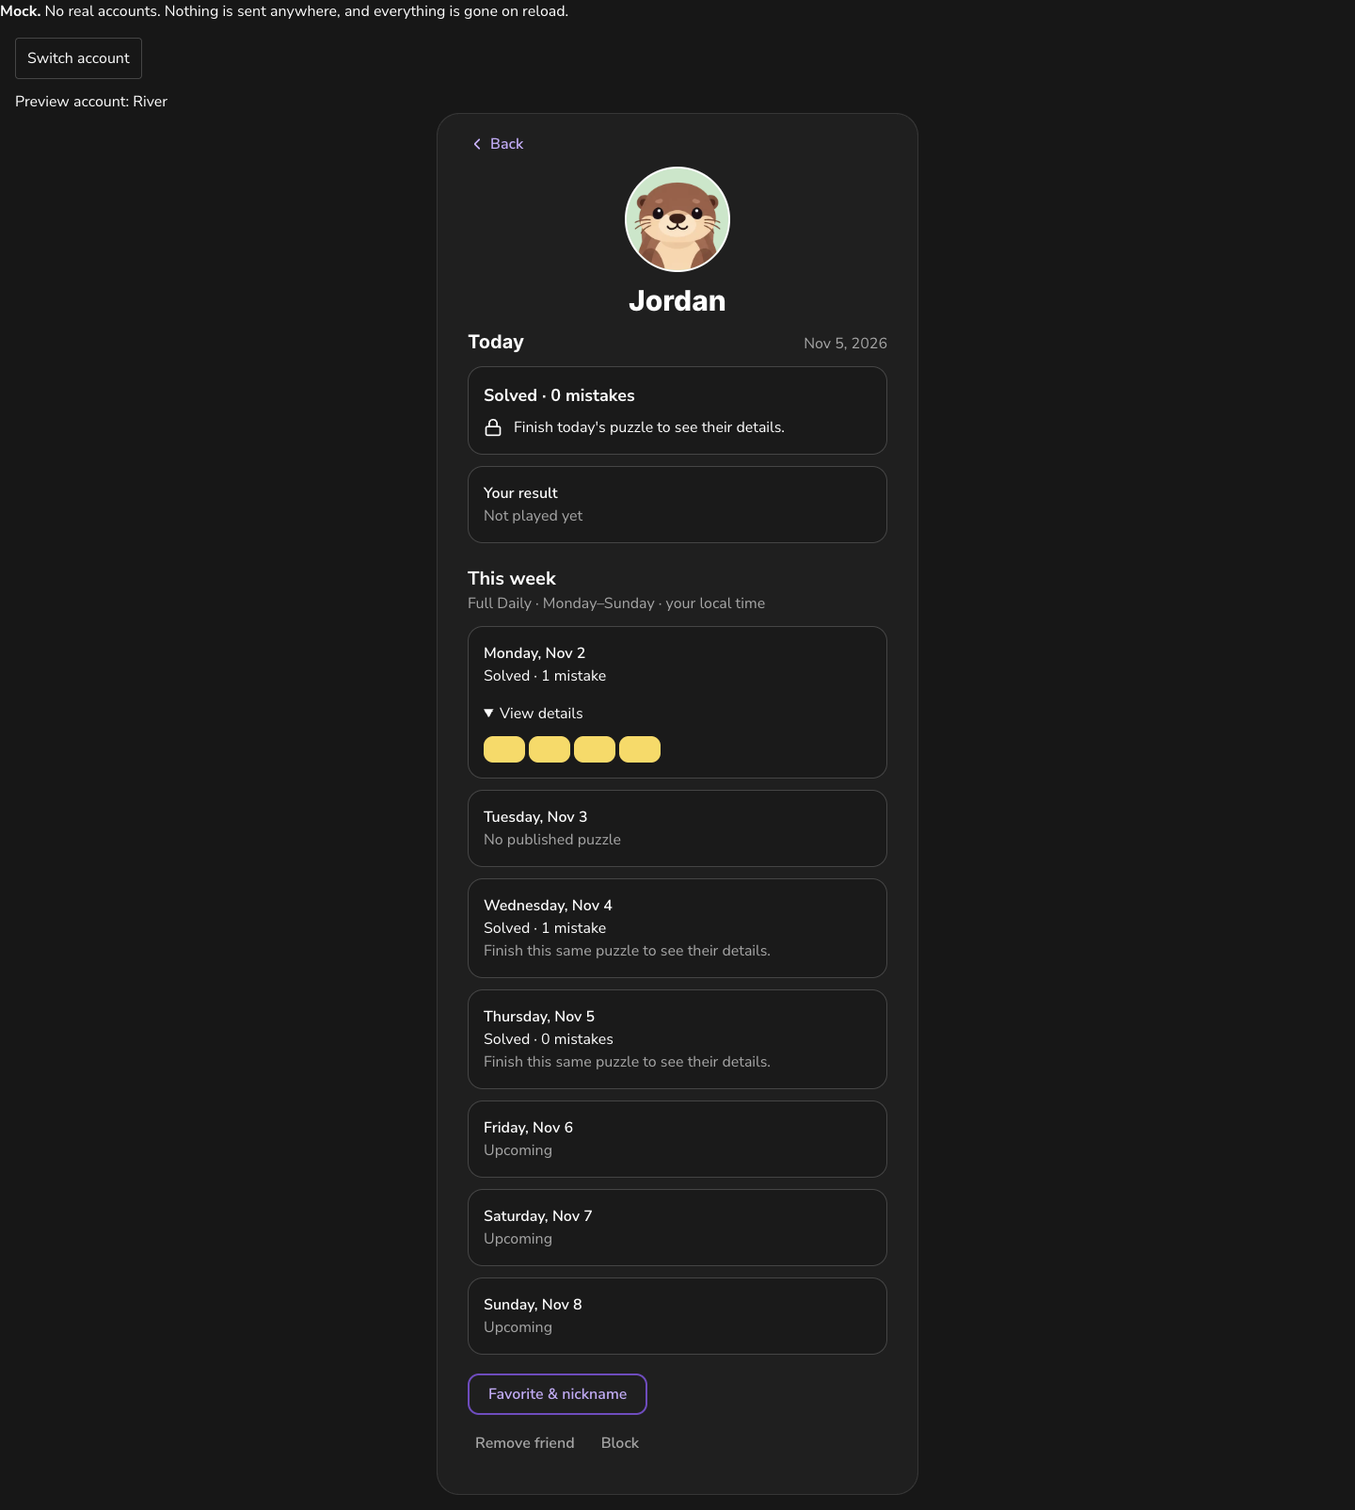
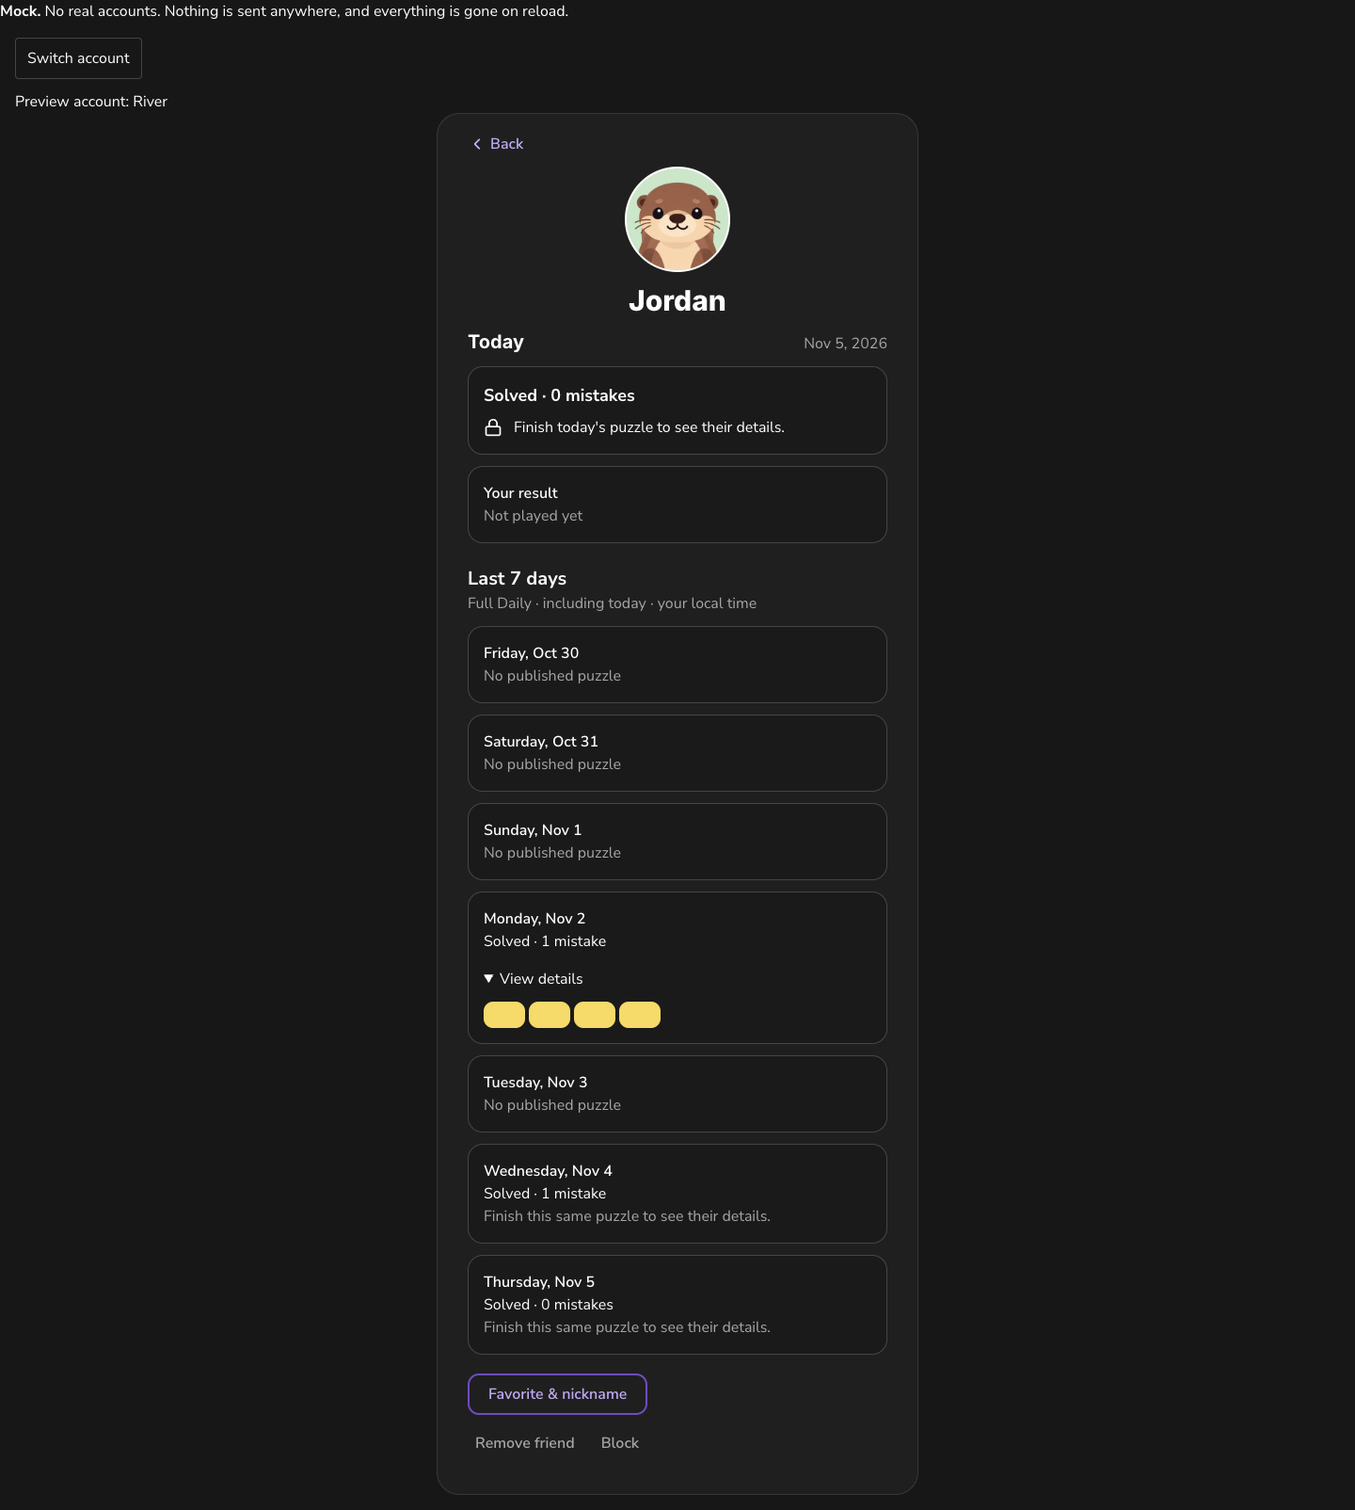
Use rolling activity periods and define anonymous standings rows

Changed region(s): [[0.3438, 0.3741, 0.5625, 0.904], [0.5, 0.6234, 0.5625, 0.6546]]

diff --git a/src/test/socialWeek.test.tsx b/src/test/socialWeek.test.tsx
@@ -1,6 +1,6 @@
 import {act,fireEvent,render,screen,waitFor} from '@testing-library/react';
 import {describe,expect,it,vi} from 'vitest';
-import {socialWeek,localPuzzleDate} from '@/lib/socialWeek';
+import {socialWeek,localPuzzleDate,rollingSocialDays} from '@/lib/socialWeek';
 import {FriendWeek} from '@/components/social/FriendWeek';
 import {readFriendWeek} from '@/components/social/friendWeekData';
 import type {SocialApi} from '@/components/social/socialApi';
@@ -12,32 +12,32 @@ function fixture(){
  const api={client:{call},today:()=>new Date(2026,10,5,23,59),weekPuzzles} as unknown as SocialApi;
  return {api,call,weekPuzzles};
 }
-describe('local Monday–Sunday calendar',()=>{
- it('keeps Sunday in the same week and moves at local Monday midnight',()=>{
+describe('rolling local calendar',()=>{
+ it('includes today and advances one day at local midnight',()=>{
   expect(socialWeek(new Date(2026,10,8,23,59)).map(x=>x.date)).toEqual(['2026-11-02','2026-11-03','2026-11-04','2026-11-05','2026-11-06','2026-11-07','2026-11-08']);
-  expect(socialWeek(new Date(2026,10,9))[0].date).toBe('2026-11-09');
+  expect(socialWeek(new Date(2026,10,9))[0].date).toBe('2026-11-03');
  });
  it('uses calendar days across year boundaries and DST transitions',()=>{
-  expect(socialWeek(new Date(2027,0,1))[0].date).toBe('2026-12-28');
+  expect(socialWeek(new Date(2027,0,1))[0].date).toBe('2026-12-26');
   expect(socialWeek(new Date(2026,2,8)).map(x=>x.date)).toEqual(['2026-03-02','2026-03-03','2026-03-04','2026-03-05','2026-03-06','2026-03-07','2026-03-08']);
   expect(localPuzzleDate(new Date(2026,10,5,0,1))).toBe('2026-11-05');
  });
 });
 it('requests exact past puzzle ids; never falls back or uses future puzzles, and strips locked detail',async()=>{
  const {api,call,weekPuzzles}=fixture();const days=await readFriendWeek(api,friend,api.today());
- expect(weekPuzzles).toHaveBeenCalledWith('2026-11-02','2026-11-05');
+ expect(weekPuzzles).toHaveBeenCalledWith('2026-10-30','2026-11-05');
  expect(call.mock.calls.map(x=>x[1].puzzleId)).toEqual(['mon','wed']);
- expect(days[0].result?.detail).toBe('🟨🟨🟨🟨');expect(days[1].result).toBeNull();expect(days[2].result?.detail).toBeNull();
+ expect(days[3].result?.detail).toBe('🟨🟨🟨🟨');expect(days[4].result).toBeNull();expect(days[5].result?.detail).toBeNull();
 });
 it('does not mislabel a refused result read as unplayed',async()=>{
  const {api,call}=fixture();call.mockResolvedValue({ok:false,outcome:'unavailable'});
  await expect(readFriendWeek(api,friend,api.today())).rejects.toThrow();
 });
-it('renders individual locks and missing/future days; retries failures',async()=>{
+it('renders individual locks and missing days; retries failures',async()=>{
  const {api,weekPuzzles}=fixture();weekPuzzles.mockRejectedValueOnce(new Error('offline'));
  render(<FriendWeek api={api} friend={friend}/>);await screen.findByText(/couldn't be loaded/);
  fireEvent.click(screen.getByRole('button',{name:'Try again'}));await screen.findByText('Finish this same puzzle to see their details.');
- expect(screen.getAllByText('No published puzzle')).toHaveLength(2);expect(screen.getAllByText('Upcoming')).toHaveLength(3);expect(screen.getAllByText('View details')).toHaveLength(1);
+ expect(screen.getAllByText('No published puzzle')).toHaveLength(5);expect(screen.queryByText('Upcoming')).toBeNull();expect(screen.getAllByText('View details')).toHaveLength(1);
 });
 it('discards a late response after friend identity changes',async()=>{
  const {api,weekPuzzles}=fixture();let resolve!:(value:{id:string;date:string}[])=>void;
@@ -47,9 +47,17 @@ it('discards a late response after friend identity changes',async()=>{
  await screen.findAllByText('Not played yet');await act(async()=>resolve([{id:'mon',date:'2026-11-02'}]));
  expect(screen.queryByText(/Solved/)).toBeNull();
 });
-it('refreshes dates on focus across Monday rollover',async()=>{
+it('refreshes dates on focus across a daily rollover',async()=>{
  const {api,weekPuzzles}=fixture();render(<FriendWeek api={api} friend={friend}/>);await screen.findByText('View details');
  api.today=()=>new Date(2026,10,9,0,1);fireEvent.focus(window);
- await waitFor(()=>expect(weekPuzzles).toHaveBeenLastCalledWith('2026-11-09','2026-11-09'));
+ await waitFor(()=>expect(weekPuzzles).toHaveBeenLastCalledWith('2026-11-03','2026-11-09'));
  expect(screen.queryByText('View details')).toBeNull();
+});
+
+it('uses fixed 30 and 365 day windows rather than calendar months or years',()=>{
+ const today=new Date(2024,2,1);
+ const month=rollingSocialDays(today,30),year=rollingSocialDays(today,365);
+ expect(month).toHaveLength(30);expect(month[0].date).toBe('2024-02-01');expect(month[29].date).toBe('2024-03-01');
+ expect(year).toHaveLength(365);expect(year[0].date).toBe('2023-03-03');expect(year[364].date).toBe('2024-03-01');
+ expect(new Set(year.map(day=>day.date)).size).toBe(365);
 });

diff --git a/src/test/crosspunsStandingsView.test.ts b/src/test/crosspunsStandingsView.test.ts
@@ -1,0 +1,18 @@
+import {expect,it} from 'vitest';
+import {crossPunsStandings} from '@/social/crosspunsStandings';
+import {crossPunsStandingsView} from '@/social/crosspunsStandingsView';
+it('keeps shared ranks but emits no blocked identity, scores, puzzle counts or linkable references',()=>{
+ const standings=crossPunsStandings([{memberRef:'secret-person'},{memberRef:'viewer'}],[{memberRef:'secret-person',puzzleId:'secret-puzzle',seconds:10},{memberRef:'viewer',puzzleId:'secret-puzzle',seconds:20}]);
+ const people=new Map([['secret-person',{name:'Secret name',blockedEitherWay:true}],['viewer',{name:'Viewer',blockedEitherWay:false}]]);
+ const rows=crossPunsStandingsView(standings.rows,people);
+ expect(rows).toEqual([{blocked:true,rank:1,label:'This player is blocked'},{blocked:false,rank:2,memberRef:'viewer',name:'Viewer',points:2}]);
+ expect(JSON.stringify(rows)).not.toMatch(/secret|puzzles|seconds/i);
+ people.set('secret-person',{name:'Secret name',blockedEitherWay:false});
+ expect(crossPunsStandingsView(standings.rows,people).map(row=>row.rank)).toEqual(rows.map(row=>row.rank));
+});
+it('fails closed when visibility is missing and keeps tied blocked rows free of persistent ids',()=>{
+ const standings=[{memberRef:'a',rank:1,points:3,puzzles:1},{memberRef:'b',rank:1,points:3,puzzles:1}];
+ expect(()=>crossPunsStandingsView(standings,new Map())).toThrow('visibility');
+ const people=new Map(standings.map(row=>[row.memberRef,{name:row.memberRef,blockedEitherWay:true}]));
+ expect(crossPunsStandingsView(standings,people)).toEqual([{blocked:true,rank:1,label:'This player is blocked'},{blocked:true,rank:1,label:'This player is blocked'}]);
+});

diff --git a/src/lib/socialWeek.ts b/src/lib/socialWeek.ts
@@ -3,15 +3,16 @@ export function localPuzzleDate(date: Date): string {
   return `${date.getFullYear()}-${String(date.getMonth()+1).padStart(2,'0')}-${String(date.getDate()).padStart(2,'0')}`;
 }
 
-export function socialWeek(today: Date): {date: string; day: Date; future: boolean}[] {
+/** Inclusive local calendar days: today plus the preceding N-1 dates. */
+export function rollingSocialDays(today: Date, count: 7 | 30 | 365): {date: string; day: Date; future: boolean}[] {
   // Calendar arithmetic at noon survives DST; no UTC parsing or 24-hour addition.
-  const monday = new Date(today.getFullYear(), today.getMonth(), today.getDate(), 12);
-  monday.setDate(monday.getDate() - (monday.getDay()+6)%7);
-  const current = localPuzzleDate(today);
-  return Array.from({length:7}, (_, index) => {
-    const day = new Date(monday);
-    day.setDate(monday.getDate()+index);
-    const date = localPuzzleDate(day);
-    return {date, day, future: date > current};
+  const start = new Date(today.getFullYear(), today.getMonth(), today.getDate(), 12);
+  start.setDate(start.getDate() - count + 1);
+  return Array.from({length:count}, (_, index) => {
+    const day = new Date(start);
+    day.setDate(start.getDate()+index);
+    return {date:localPuzzleDate(day), day, future:false};
   });
 }
+
+export const socialWeek = (today: Date) => rollingSocialDays(today, 7);

diff --git a/src/social/crosspunsStandingsView.ts b/src/social/crosspunsStandingsView.ts
@@ -1,0 +1,25 @@
+import type {CrossPunsStanding} from './crosspunsStandings';
+
+/** Server-side projection only; never send the source rows to a browser. */
+export type CrossPunsStandingView =
+  | {blocked:true; rank:number; label:'This player is blocked'}
+  | {blocked:false; rank:number; memberRef:string; name:string; points:number};
+
+/**
+ * Rank over the whole authorized group BEFORE this projection, so block direction
+ * cannot change placements. Identity/blocked status must come from the server.
+ * The anonymous branch is an allow-list, not a spread/redaction or CSS blur.
+ * No anonymity guarantee is possible against roster knowledge or external boards.
+ */
+export function crossPunsStandingsView(
+  standings: readonly CrossPunsStanding[],
+  people: ReadonlyMap<string,{name:string; blockedEitherWay:boolean}>,
+): CrossPunsStandingView[] {
+  return standings.map(row=>{
+    const person=people.get(row.memberRef);
+    // A missing visibility decision cannot safely be treated as an unblocked row.
+    if (!person) throw new Error('Missing standings visibility');
+    if(person.blockedEitherWay)return {blocked:true,rank:row.rank,label:'This player is blocked'};
+    return {blocked:false,rank:row.rank,memberRef:row.memberRef,name:person.name,points:row.points};
+  });
+}

diff --git a/src/components/social/FriendWeek.tsx b/src/components/social/FriendWeek.tsx
@@ -28,9 +28,9 @@ export function FriendWeek({api, friend}: {api: SocialApi; friend: FriendResult}
     // eslint-disable-next-line react-hooks/exhaustive-deps
   }, [api, key]);
   const current = read?.key === key ? read : null;
-  return <section className="mt-6" aria-label="This week's activity">
-    <h2 className="text-xl font-bold">This week</h2>
-    <p className={quietText}>Full Daily · Monday–Sunday · your local time</p>
+  return <section className="mt-6" aria-label="Last 7 days of activity">
+    <h2 className="text-xl font-bold">Last 7 days</h2>
+    <p className={quietText}>Full Daily · including today · your local time</p>
     {!current ? <p role="status">Loading weekly activity…</p> : current.failed ? <div role="status"><p>Weekly activity couldn't be loaded.</p><button className="min-h-11 underline" onClick={() => setRevision(value => value+1)}>Try again</button></div> :
       <ol className="mt-3 space-y-3">{socialWeek(api.today()).map(day => {
         const result = current.days?.find(row => row.date===day.date)?.result;

diff --git a/FRIENDS-GROUPS-CHECKPOINT.md b/FRIENDS-GROUPS-CHECKPOINT.md
@@ -1,8 +1,8 @@
 # Current continuation status — 2026-11-05
 
-Branch: `codex/rainbow-profile-menu`. Latest saved service/UI slice: `b5ccadb` (delegated invitations), following `a17a96c` transparency, `68dcf07` member roster, `4f2104f` private friend preferences, `d1bd15d` group ordering, `877a20b` descriptions, and `2e7267b` owner actions. Friend-profile/favorites strip saved at `cc8e695`. Monday–Sunday activity is saved in the commit containing this checkpoint; use `git log -1` for its exact hash. All changes are LOCAL; shared patches unapplied, production flags off, no push/merge/deployment/live account writes.
+Branch: `codex/rainbow-profile-menu`. Latest saved service/UI slice: `b5ccadb` (delegated invitations), following `a17a96c` transparency, `68dcf07` member roster, `4f2104f` private friend preferences, `d1bd15d` group ordering, `877a20b` descriptions, and `2e7267b` owner actions. Friend-profile/favorites strip saved at `cc8e695`. Monday–Sunday activity was saved at `a0a10a8`; the latest rolling-window direction below supersedes it. Standings foundation is saved at `633829c`. All changes are LOCAL; shared patches unapplied, production flags off, no push/merge/deployment/live account writes.
 
-Latest verification: **71 app files / 1,891 assertions passed cleanly**, 99 shared-service tests passed in the preceding service slice. App typecheck, changed-file lint and production build pass. Profile and preferences browser flows pass at 320/1440px in light/dark. See the final section for deliverables and remaining decisions. Historical sections below are chronological and superseded by later sections.
+Latest verification: **73 app files / 1,900 assertions passed cleanly**, 99 shared-service tests passed in the preceding service slice. App typecheck, changed-file lint and production build pass. Profile and preferences browser flows pass at 320/1440px in light/dark. See the final section for deliverables and remaining decisions. Historical sections below are chronological and superseded by later sections.
 
 # Rainbow Friends & Groups checkpoint — 2026-11-05
 
@@ -171,3 +171,11 @@ This section supersedes the initial component-only status above. Integration cha
 - Verification: all six focused tests pass; app typecheck and changed-file lint pass. Latest full app aggregate remains the immediately preceding weekly slice (1891 tests clean); no production module imports the new pure scoring helper. No service patch changed; latest shared-service verification remains 99 tests.
 - Two consequential questions are now pending: period attribution for late solves (puzzle published date versus solve date), and block handling (rank visible members, possibly different per viewer, versus hide standings while a group block exists). Existing shared privacy suppresses blocked-person results; no standings endpoint or UI was added that could leak hidden participation. The core scorer is saved safely while these choices are unresolved.
 - No push, merge, deployment, production flag, real account or live-data changes. No technical access request was denied. Remaining integration needs the decisions above and a tested server read over actual CrossPuns history, not just mock/shared result-card data.
+
+## Rolling periods and anonymous standings direction — 2026-11-05
+- Deb superseded Monday–Sunday with rolling last 7 days, last 30 days and last 365 days. `socialWeek.ts` now implements inclusive device-local calendar ranges (today plus N-1 prior dates), keeping the app's existing date semantics. `FriendWeek.tsx` shows Last 7 days rather than future weekdays. The 30/365-day helpers are tested but do not imply completed standings UI or a decision about publication versus solve date.
+- Updated `socialWeek.test.tsx` for daily rollover, exact past puzzle queries, DST/year/leap boundaries, missing days and existing per-puzzle locks; updated `check-week.mjs` and refreshed four `evidence/week-*` browser captures.
+- Deb chose shared rankings with blocked rows masked in either direction. Added `src/social/crosspunsStandingsView.ts` and two tests. The server-side projection accepts the full already-ranked group and emits only blocked/rank/generic label for masked rows; no identifier, name, avatar, points, puzzle count, time/date, details or link. Visible players retain canonical ranks. It rejects missing visibility decisions. It is not wired into a service or UI and does not weaken existing result privacy.
+- Source inspection: `audience_global_ids` excludes blocked players before reading completions; `list_results` excludes them again. A new dedicated standings read path is needed rather than changing these existing paths. `list_members` still shows all group members, so true anonymity cannot be guaranteed from masking: in a two-person group the other row is inferable, and public/previous standings can help identify participation. Rank-only masking limits direct disclosure; this substantive limitation has been reported rather than silently claiming zero identifying/puzzle inference.
+- The publication-date versus solve-date scoring question remains unanswered. All-time scoring does not need it, but a complete standings endpoint still needs confirmation that the stated rank-only/inference privacy behavior meets the intended requirement. Source is available; this is not an access denial.
+- Initial browser retry found the local preview server stopped (connection refused); restarted it. Initial typecheck caught a new test passing the standings envelope instead of `.rows`; corrected that test and the focused tests/typecheck/lint pass. Final full aggregate: **73 files / 1900 assertions passed cleanly**, exit 0 (`/tmp/rainbow-rolling-full.log`). Browser checks pass in Los Angeles/Auckland at 320/1440 light/dark, with correct rolling range, unchanged puzzle locks and account switching; refreshed 320px dark capture visually inspected. App typecheck, changed-file lint, build and diff check pass. No live data, service policy, rollout, merge or deployment changed.

diff --git a/docs/social/CROSSPUNS-STANDINGS-INTEGRATION.md b/docs/social/CROSSPUNS-STANDINGS-INTEGRATION.md
@@ -8,7 +8,8 @@
 - Per-puzzle points: first 3, second 2, third 1. Competition ties: ranks 1, 1, 3 earn 3, 3, 1. Submission order must not break equal-time ties.
 - Current members bring prior results into group standings. Do not filter by join date.
 - Departed members no longer contribute to group totals or history; personal history stays intact.
-- Weeks run Monday–Sunday. The date basis for late solves in weekly/monthly/yearly standings is still pending (published date versus solved date).
+- Updated direction: rolling last 7 / 30 / 365 local calendar days, including today, replaces Monday–Sunday weeks. The date basis for late solves in standings is still pending (published date versus solved date).
+- Rankings remain common to the whole group. For either-direction blocks, the requested row is anonymous rather than omitted. No CSS blur of identifying data is acceptable.
 
 ## Actual source inspected
 
@@ -30,13 +31,18 @@ Six tests cover 3/2/1, multiple tie patterns, history on joining, departure/rejo
 
 ## Integration decisions still pending
 
-1. Block privacy: a canonical ranking including hidden members can expose their influence through visible placements/points. Ranking only visible members preserves existing row privacy but gives different viewers different standings. Hiding standings while a group contains a blocked relationship is another safe option. The user has been asked to choose; no change to block privacy has been made.
+1. Block privacy: Deb chose visible common rankings with masked blocked rows. `crosspunsStandingsView.ts` now supplies a tested, unconnected server-side projection: blocked rows contain only `blocked`, `rank`, and the generic label. No name, member/account/global id, avatar, nickname, points, puzzle count, times, dates, details or link is emitted. Ranking happens before masking. This does not yet change the shared service: `audience_global_ids` and `list_results` both exclude blocked results and must remain unchanged for ordinary friend/puzzle reads. A dedicated authorized standings reader is needed.
+   **Substantive limitation:** `list_members` shows the whole roster, including blocked members. In a two-person group, the anonymous other row is inferable. Public CrossPuns times and repeated ranking comparisons can also identify a player or reveal participation. Rank-only masking prevents direct field disclosure but cannot promise anonymity or zero puzzle inference against outside knowledge. This was reported; no claim of that stronger guarantee or new production privacy policy was made.
 2. Period attribution: for a late solve, use the puzzle's publication date or the player's solve date? The user has been asked. If solve date is selected, clarify/apply the existing device-local convention consistently at the server boundary. All-time scoring itself does not need this choice.
 
 ## Next concrete implementation
 
-- Resolve block handling, then build a membership-authorized read contract for shared groups. Resolve shared person ids to CrossPuns accounts server-side; never return global ids, account ids or player keys. Reuse the actual first-solve source precedence above and explicitly test imported legacy records.
+- Confirm that rank-only masking with the stated inference limitation meets the intended privacy requirement, then build a dedicated membership-authorized read contract for shared groups. Resolve shared person ids to CrossPuns accounts server-side; never return global ids, account ids or player keys. Reuse the actual first-solve source precedence above and explicitly test imported legacy records.
 - Read prior results for current memberships only; do not mutate personal history or copy legacy group memberships. Keep friends' forward-only rule separate from group-history policy.
 - Apply the calculator's competition semantics server-side, with bounded pagination and stable ordering. Test unauthorized/blocked/departed callers, join/remove/rejoin, prior history, duplicate sources, equal seconds and same totals. Preserve answer-detail spoiler gates; aggregate points must never include answers.
 - Verify source table availability/privileges and the target schema before proposing rollout. Add local schema fixtures and SQL tests before proposing rollout. Existing result cards alone are not proof of complete backfilled history.
 - Add a disabled-by-default Rainbow clubhouse panel only after the read contract is real. No CrossPuns website rollout or production writes are authorized here.
+
+## Rolling activity and privacy projection verification
+
+The Rainbow friend activity UI now shows the last seven local calendar dates through today. Shared range helpers cover 7/30/365 days, including DST and leap-year boundaries; they do not decide which date a CrossPuns solve belongs to. No 30/365-day standings UI or source filter is implied by these helpers. The standings projection is pure code, not a deployed endpoint or cosmetic client blur.
